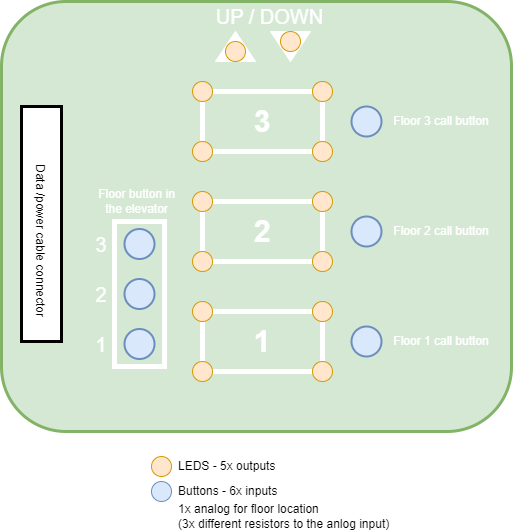
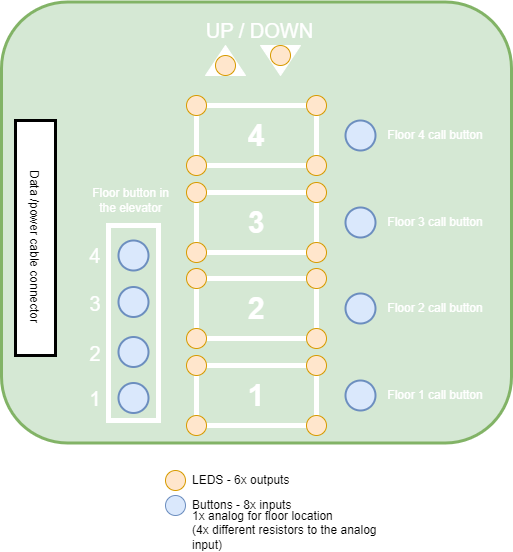
Update elevator spec for 4 floors

diff --git a/README.md b/README.md
@@ -69,14 +69,15 @@ A simple board the maps against the 8 digital inputs and 8 digital outputs. The 
 ![8bitIO](images/digiIO.png)
 ![8bitIO](images/IOboard.jpg)
 
-### Three floor elevator
+### Four floor elevator
 
 A board to simulate a elevator with 3 floors.
 
 - 1 button for each floor to call the elevator 
 - 2 LEDs to indicate elevator traveling up or down
-- 3 buttons for the inside of the elevator
-- 4-8 LEDs in a box to represent the elevator at each floor
+- 4 buttons for the inside of the elevator
+- 4 LEDs in a box to represent the elevator at each floor
+- 1 Analog input for the floor feedback (resistor network)
 
 *Design currently under development.*
 
